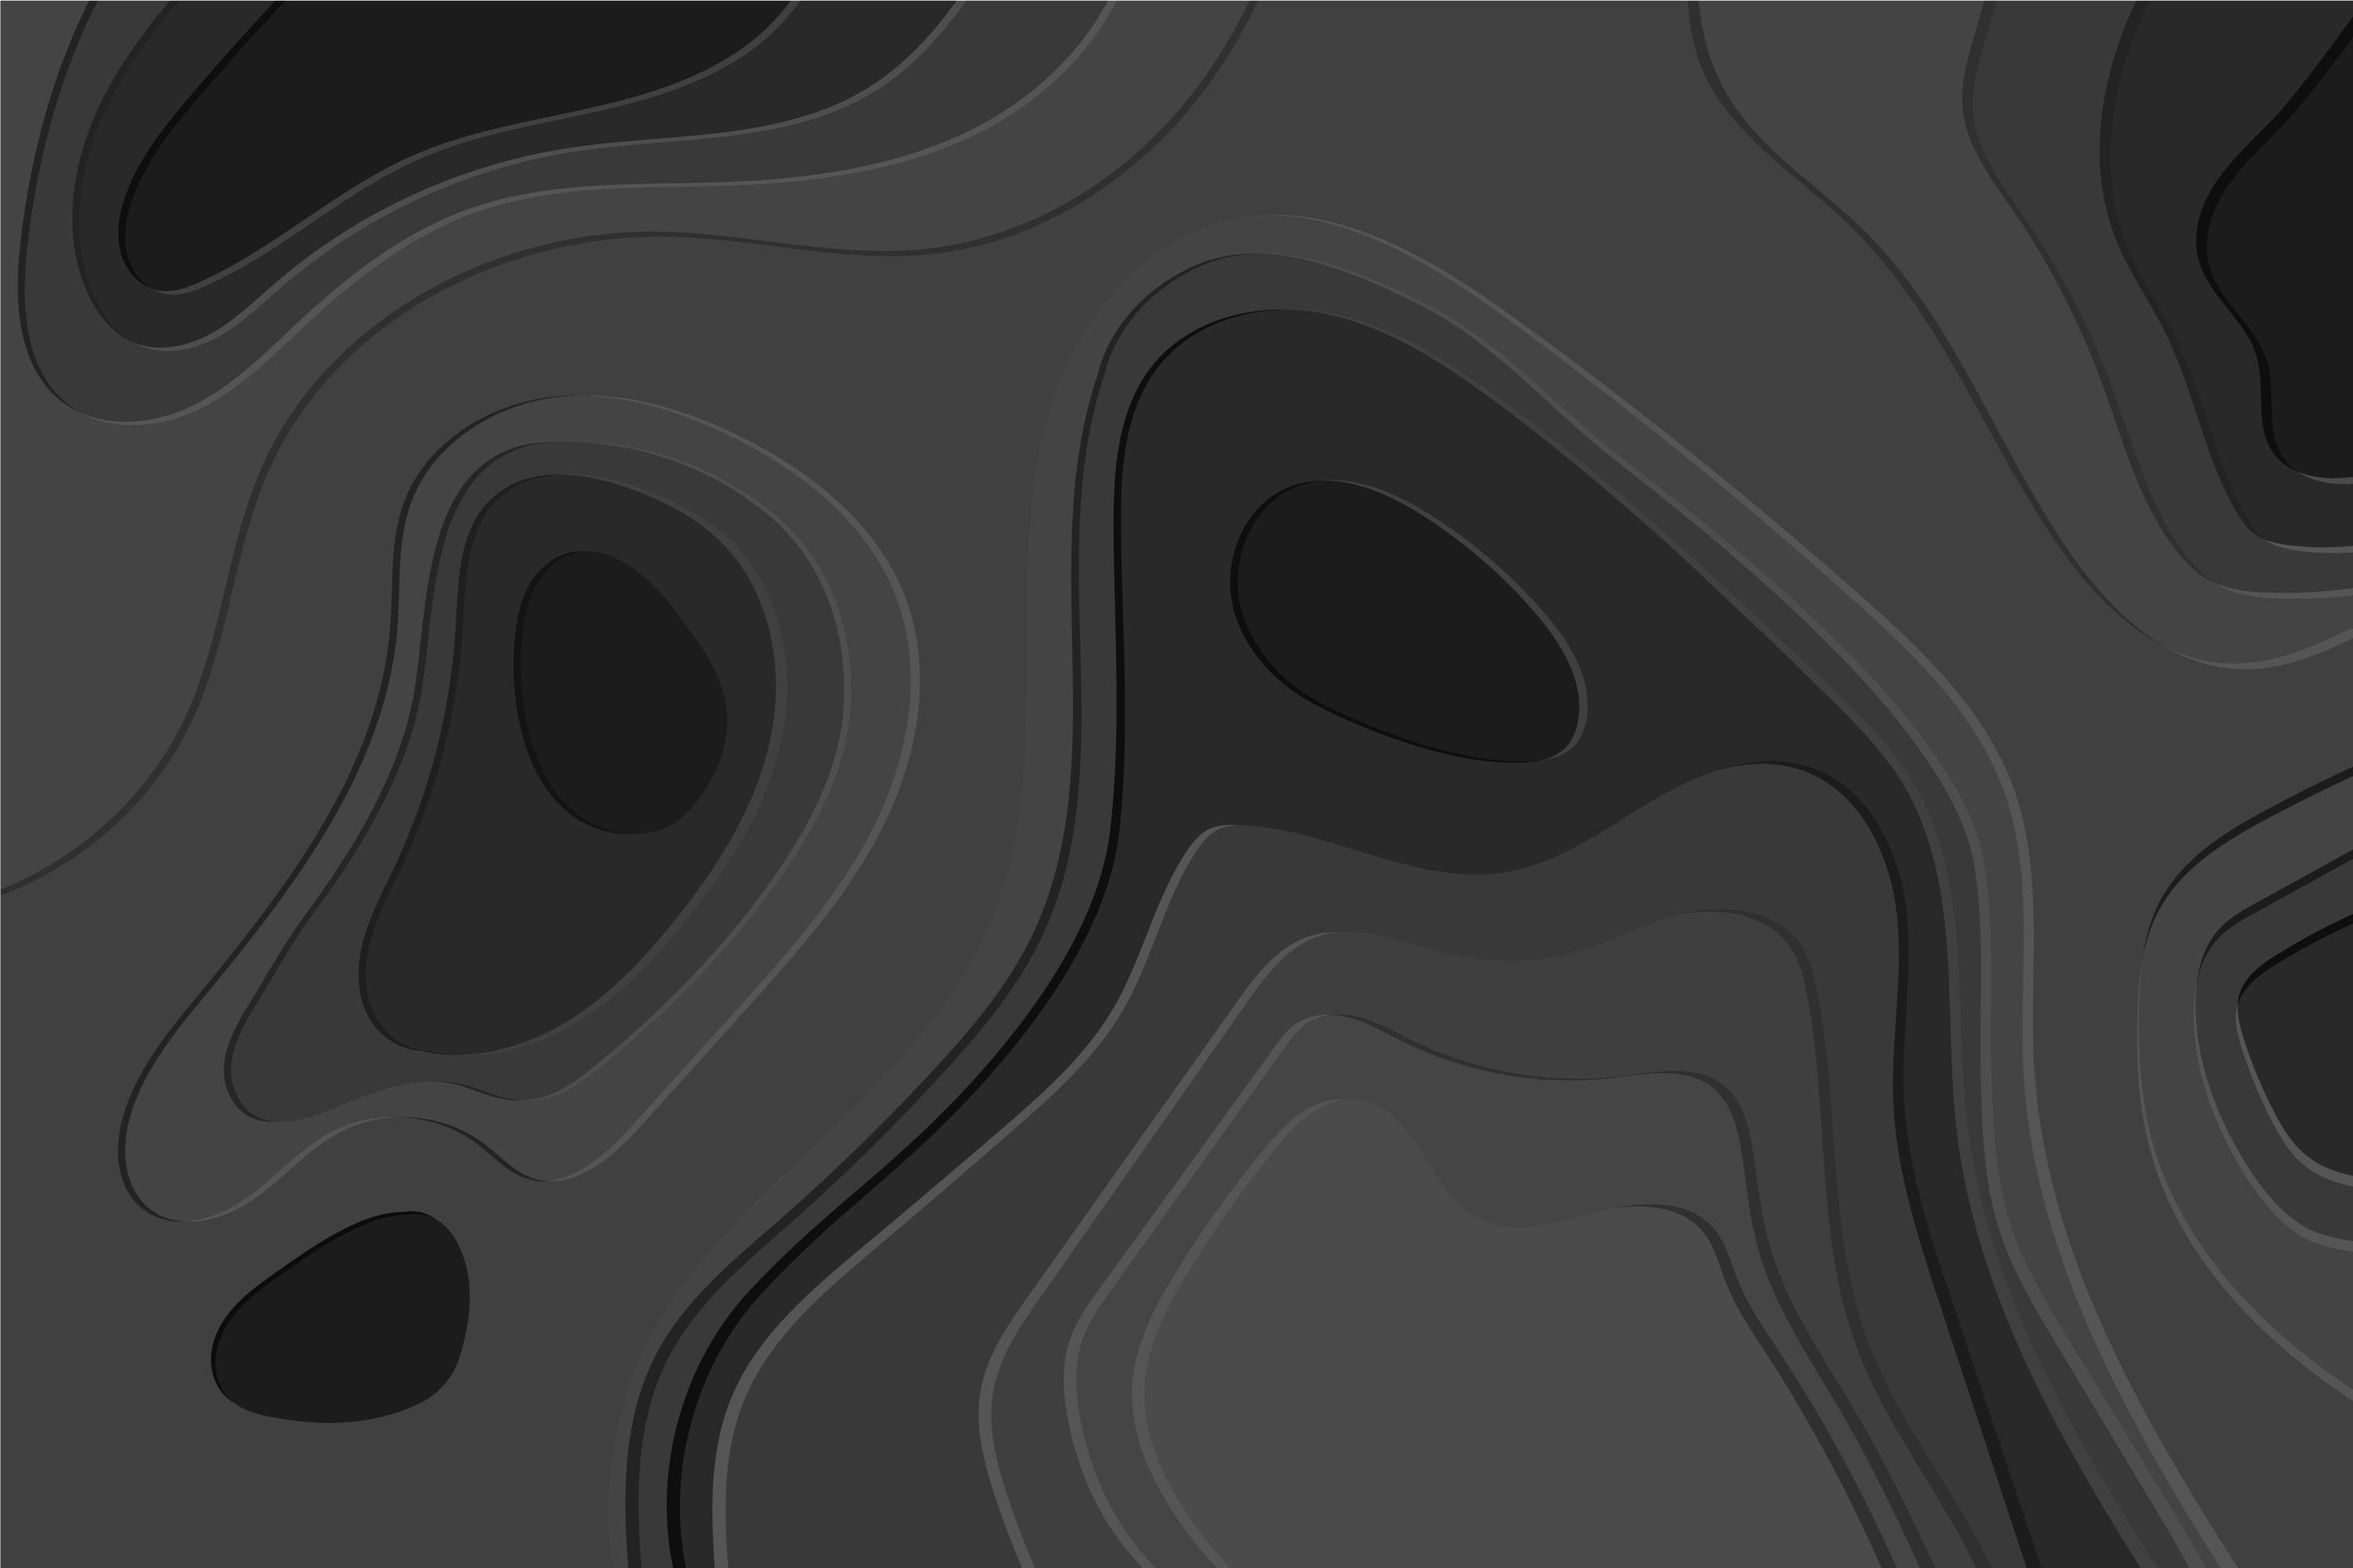
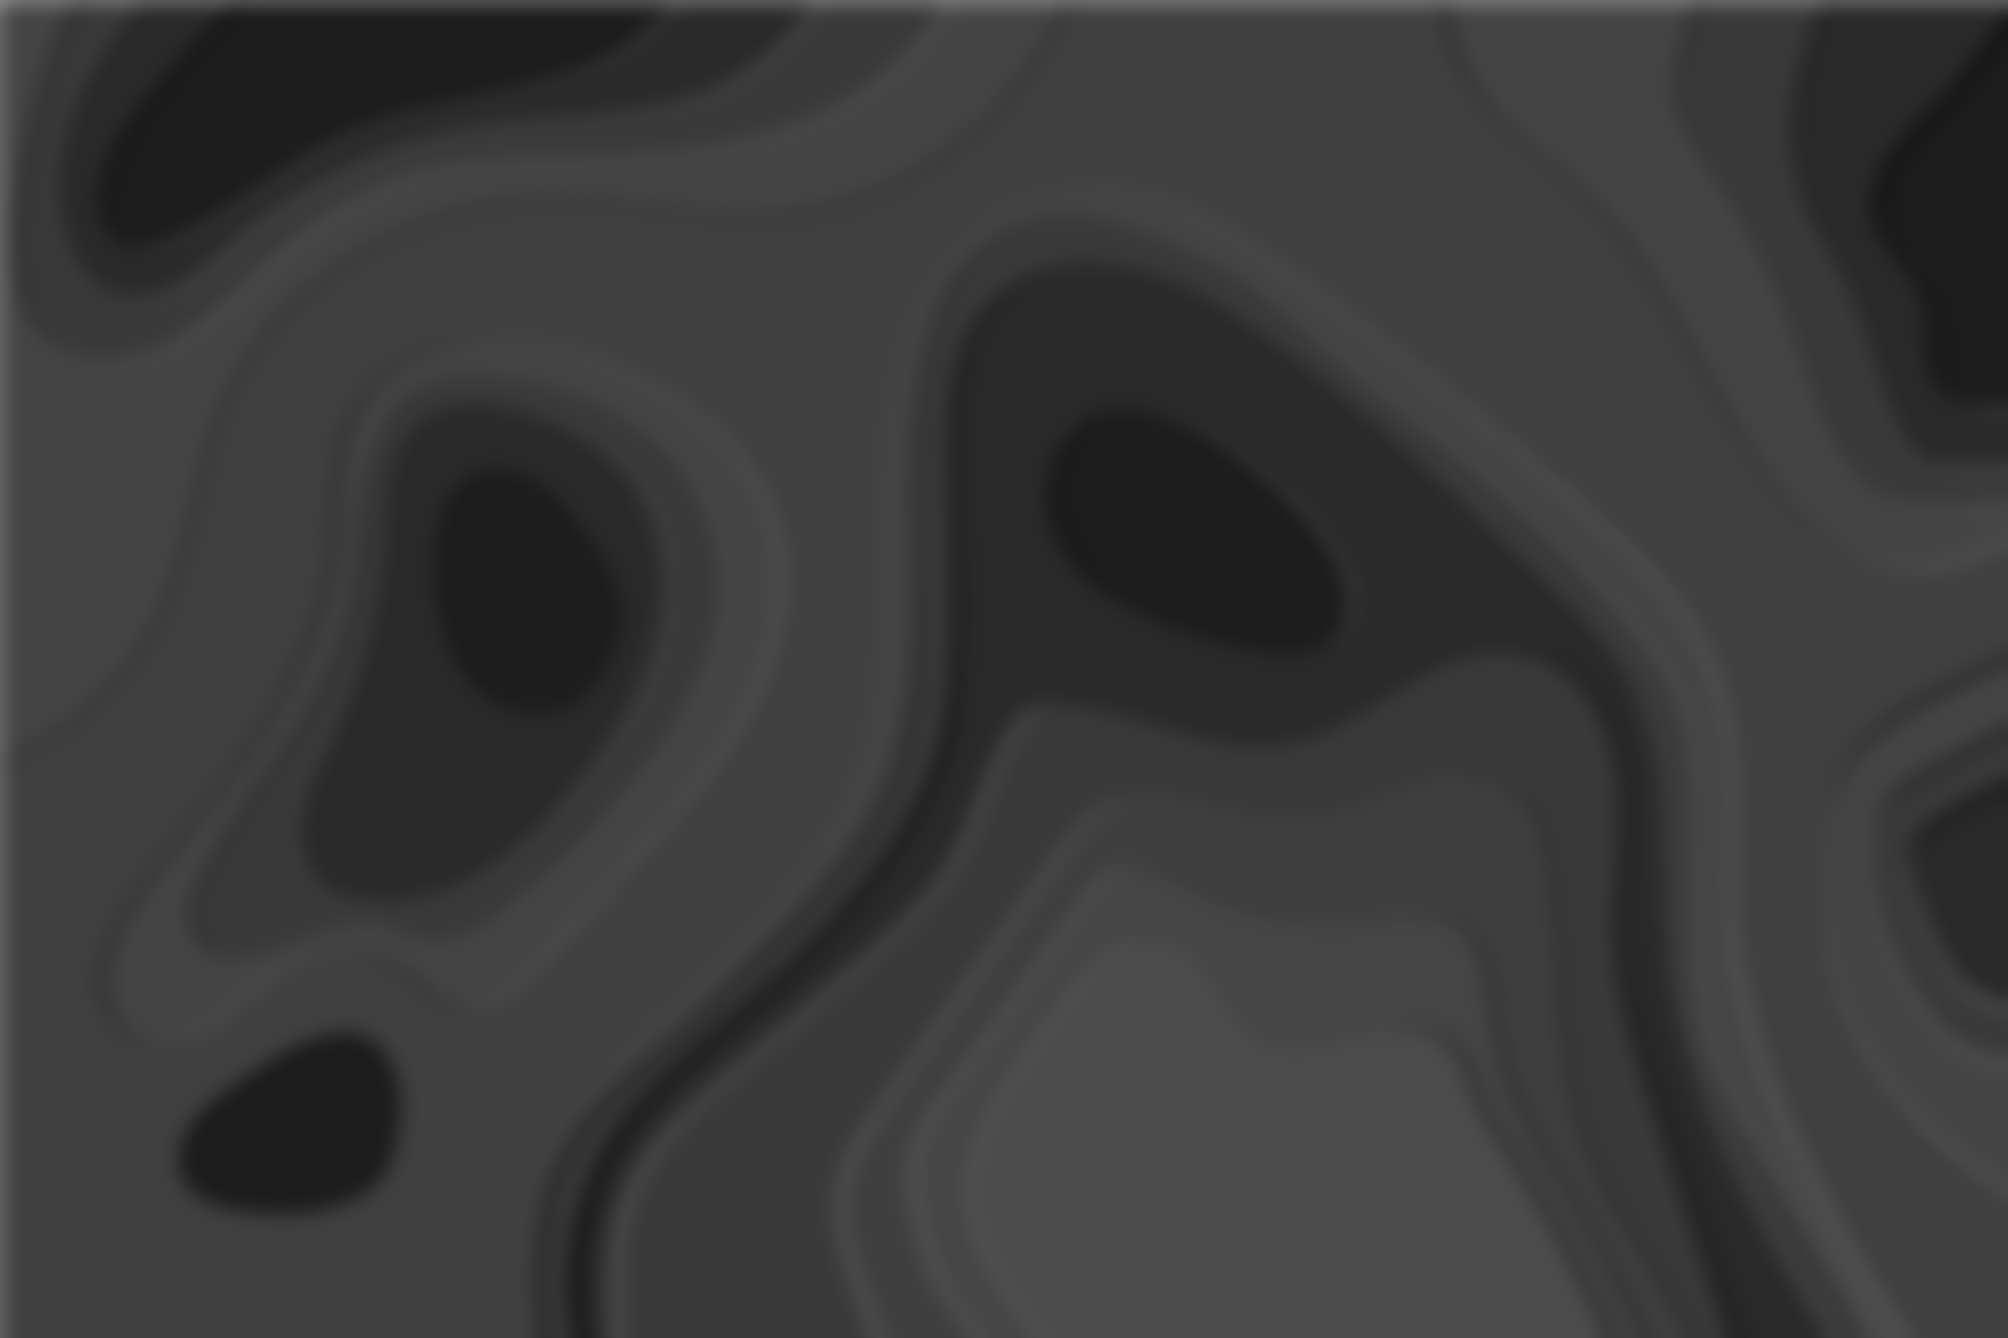
style(themes): apply high-fidelity Gaussian blur directly to wallpaper PNGs with smooth contrast

Changed region(s): [[0.0, 0.0, 1.0, 0.0311], [0.9688, 0.4971, 1.0, 0.5281], [0.4062, 0.7145, 0.4375, 0.7456]]

diff --git a/themes/liquid-glass.css b/themes/liquid-glass.css
@@ -9,42 +9,19 @@
   --theme-glass-bg: rgba(255, 255, 255, 0.05);
 }
 
-/* Base Canvas */
+/* Fluid Liquid Crystal Ambient Atmosphere with Blurred Wallpaper */
 html, body, #root, .bg-hub-base, .bg-\[\#040405\], .bg-\[\#07080a\], .bg-\[\#0b0c0e\], .bg-\[\#07070a\], .bg-\[\#050507\] {
-  background-color: #02040a !important;
-  background-image: none !important;
-  color: #f8fafc !important;
-  position: relative;
-}
-
-/* Genuine GPU Blurred Ambient Artwork Layer */
-body::before {
-  content: "" !important;
-  position: fixed !important;
-  inset: -40px !important;
-  z-index: 0 !important;
-  pointer-events: none !important;
+  background-color: #03060c !important;
   background-image: 
-    radial-gradient(circle at 50% -10%, rgba(56, 189, 248, 0.3) 0%, transparent 60%),
-    radial-gradient(circle at 100% 100%, rgba(99, 102, 241, 0.22) 0%, transparent 60%),
-    linear-gradient(180deg, rgba(2, 5, 12, 0.65) 0%, rgba(2, 5, 12, 0.88) 100%),
+    radial-gradient(circle at 50% -10%, rgba(56, 189, 248, 0.2) 0%, transparent 50%),
+    radial-gradient(circle at 100% 100%, rgba(99, 102, 241, 0.14) 0%, transparent 50%),
+    linear-gradient(180deg, rgba(2, 5, 12, 0.45) 0%, rgba(2, 5, 12, 0.7) 100%),
     url('https://raw.githubusercontent.com/PE4CE1/EclipseLauncher/main/themes/assets/liquid-glass.png') !important;
   background-size: cover !important;
   background-position: center !important;
   background-repeat: no-repeat !important;
-  filter: blur(36px) brightness(0.9) saturate(140%) !important;
-  -webkit-filter: blur(36px) brightness(0.9) saturate(140%) !important;
-  transform: scale(1.06) !important;
-}
-
-#root {
-  position: relative !important;
-  z-index: 1 !important;
-  background-color: transparent !important;
-}
-
-main, .h-full.overflow-y-auto {
-  background-color: transparent !important;
+  background-attachment: fixed !important;
+  color: #f8fafc !important;
 }
 
 ::selection {
@@ -54,18 +31,18 @@ main, .h-full.overflow-y-auto {
 
 /* Fluid TopBar Header */
 header, .bg-\[\#07080a\]\/75 {
-  background: rgba(4, 9, 18, 0.75) !important;
-  backdrop-filter: blur(28px) saturate(190%) !important;
-  -webkit-backdrop-filter: blur(28px) saturate(190%) !important;
+  background: linear-gradient(180deg, rgba(6, 12, 22, 0.75) 0%, rgba(3, 7, 14, 0.65) 100%) !important;
+  backdrop-filter: blur(32px) saturate(190%) !important;
+  -webkit-backdrop-filter: blur(32px) saturate(190%) !important;
   border-bottom: 1px solid rgba(255, 255, 255, 0.1) !important;
   box-shadow: 0 8px 32px rgba(0, 0, 0, 0.4), inset 0 1px 0 rgba(255, 255, 255, 0.15) !important;
 }
 
 /* Sidebar with Liquid Droplet Feel */
 aside, .border-r {
-  background: rgba(3, 7, 15, 0.65) !important;
-  backdrop-filter: blur(32px) saturate(160%) !important;
-  -webkit-backdrop-filter: blur(32px) saturate(160%) !important;
+  background: linear-gradient(180deg, rgba(4, 8, 16, 0.65) 0%, rgba(2, 4, 9, 0.75) 100%) !important;
+  backdrop-filter: blur(36px) saturate(160%) !important;
+  -webkit-backdrop-filter: blur(36px) saturate(160%) !important;
   border-right: 1px solid rgba(255, 255, 255, 0.08) !important;
 }
 

diff --git a/themes/oled.css b/themes/oled.css
@@ -7,40 +7,17 @@
   --theme-silver: #e4e4e7;
 }
 
-/* Base Canvas */
+/* 100% Absolute Deep Pure Black with Pre-Blurred OLED Background */
 html, body, #root, .bg-hub-base, .bg-\[\#040405\], .bg-\[\#07080a\], .bg-\[\#0b0c0e\], .bg-\[\#07070a\], .bg-\[\#050507\] {
   background-color: #000000 !important;
-  background-image: none !important;
-  color: #ffffff !important;
-  position: relative;
-}
-
-/* OLED Smooth Ambient Artwork Layer with GPU Filter Blur */
-body::before {
-  content: "" !important;
-  position: fixed !important;
-  inset: -40px !important;
-  z-index: 0 !important;
-  pointer-events: none !important;
   background-image: 
-    linear-gradient(180deg, rgba(0, 0, 0, 0.72) 0%, rgba(0, 0, 0, 0.9) 100%),
+    linear-gradient(180deg, rgba(0, 0, 0, 0.6) 0%, rgba(0, 0, 0, 0.8) 100%),
     url('https://raw.githubusercontent.com/PE4CE1/EclipseLauncher/main/themes/assets/oled.png') !important;
   background-size: cover !important;
   background-position: center !important;
   background-repeat: no-repeat !important;
-  filter: blur(28px) brightness(0.85) saturate(120%) !important;
-  -webkit-filter: blur(28px) brightness(0.85) saturate(120%) !important;
-  transform: scale(1.06) !important;
-}
-
-#root {
-  position: relative !important;
-  z-index: 1 !important;
-  background-color: transparent !important;
-}
-
-main, .h-full.overflow-y-auto {
-  background-color: transparent !important;
+  background-attachment: fixed !important;
+  color: #ffffff !important;
 }
 
 header {
